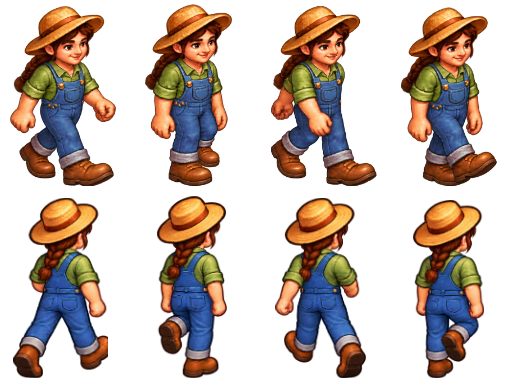
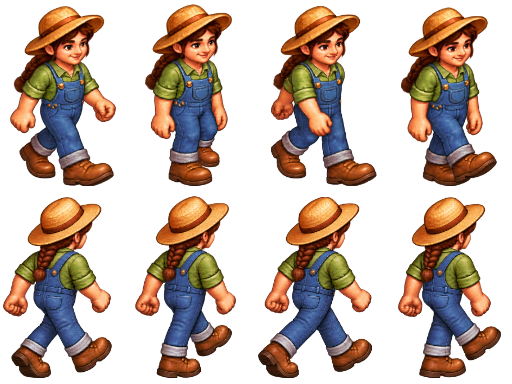
Align rear walking poses with farmer travel direction

diff --git a/tests/browser/walking-facing.spec.ts b/tests/browser/walking-facing.spec.ts
@@ -32,13 +32,24 @@ for (const variant of ["male", "female"] as const) {
     ]) {
       await page.keyboard.press("Escape");
       await page.locator(`[data-cell="${cell}"]`).press("Enter");
-      await expect(canvas).toHaveAttribute("data-farmer-motion", "walk");
-      await expect(canvas).toHaveAttribute("data-farmer-facing", facing);
-      await expect(canvas).toHaveAttribute(
-        "data-farmer-frame",
-        new RegExp(
-          `^farmer${variant === "female" ? "-female" : ""}-walk:${facing.startsWith("back") ? "[4-7]" : "[0-3]"}$`,
-        ),
+      // Observe the transient pose atomically before arrival can replace it.
+      await page.waitForFunction(
+        ({ facing, prefix }) => {
+          const data = document.querySelector("canvas")!.dataset;
+          const frame = Number(data.farmerFrame?.split(":")[1]);
+          return (
+            data.farmerMotion === "walk" &&
+            data.farmerFacing === facing &&
+            data.farmerFrame?.startsWith(prefix) &&
+            (facing.startsWith("back")
+              ? frame >= 4 && frame <= 7
+              : frame >= 0 && frame <= 3)
+          );
+        },
+        {
+          facing,
+          prefix: `farmer${variant === "female" ? "-female" : ""}-walk:`,
+        },
       );
       await expect(canvas).toHaveAttribute("data-farmer-cell", cell);
       await expect(canvas).toHaveAttribute("data-farmer-motion", "idle");

diff --git a/public/art/farmer-walk.md b/public/art/farmer-walk.md
@@ -31,3 +31,17 @@ The female conversion prompt, applied separately to front and rear strips, was:
 The final arm-continuity edit, applied to both variants and views, was:
 
 > Preserve all character identity, body proportions, leg and boot poses, scale and layout. Change only arms in passing panels 2 and 4 to hang relaxed nearly vertically beside the hips, hands alongside upper thighs. These are neutral intermediate poses between opposite arm swings. Soften the front panel 3 forward swing so the hand stays near the hip rather than crossing the bib. Keep contact panels and all leg phases unchanged.
+
+## Rear cycle alignment
+
+The rear row was rebuilt with a four-pose motion guide so the feet stride along the same heading as the head, torso, and hips. The contact poses alternate the near and far leading leg, with a passing pose between them. Both boot toes follow the travel direction instead of spreading sideways. All front-row pixels were preserved.
+
+The rear generation used the approved front artwork for identity and a separate skeletal guide for poses:
+
+> Render four distinct rear three-quarter walking poses. The near leg leads in frame 1, supports in frame 2, trails in frame 3, and passes in frame 4. The far leg does the opposite. Keep the head, shoulders, pelvis, knees, and toes facing the same rightward heading. Legs swing forward and backward along that heading, not sideways. Preserve the original stocky proportions, clothing, hat, and painted style. Four evenly spaced full bodies, consistent scale, transparent background.
+
+A targeted follow-up corrected the fourth pose's leg overlap and softened the intermediate arm positions:
+
+> In panel 4, the near leg swings forward across and in front of the far supporting leg, opposite panel 2. Preserve the other leg poses and heading. Use relaxed intermediate arm positions in panels 2 and 4.
+
+The female conversion preserved those four rear poses and changed only identity to the original female artwork, including her face and braid. Each complete source row was uniformly scaled and packed into the existing 128 × 192 cells with the existing foot anchor; no separately scaled body parts or rendering changes were introduced.
